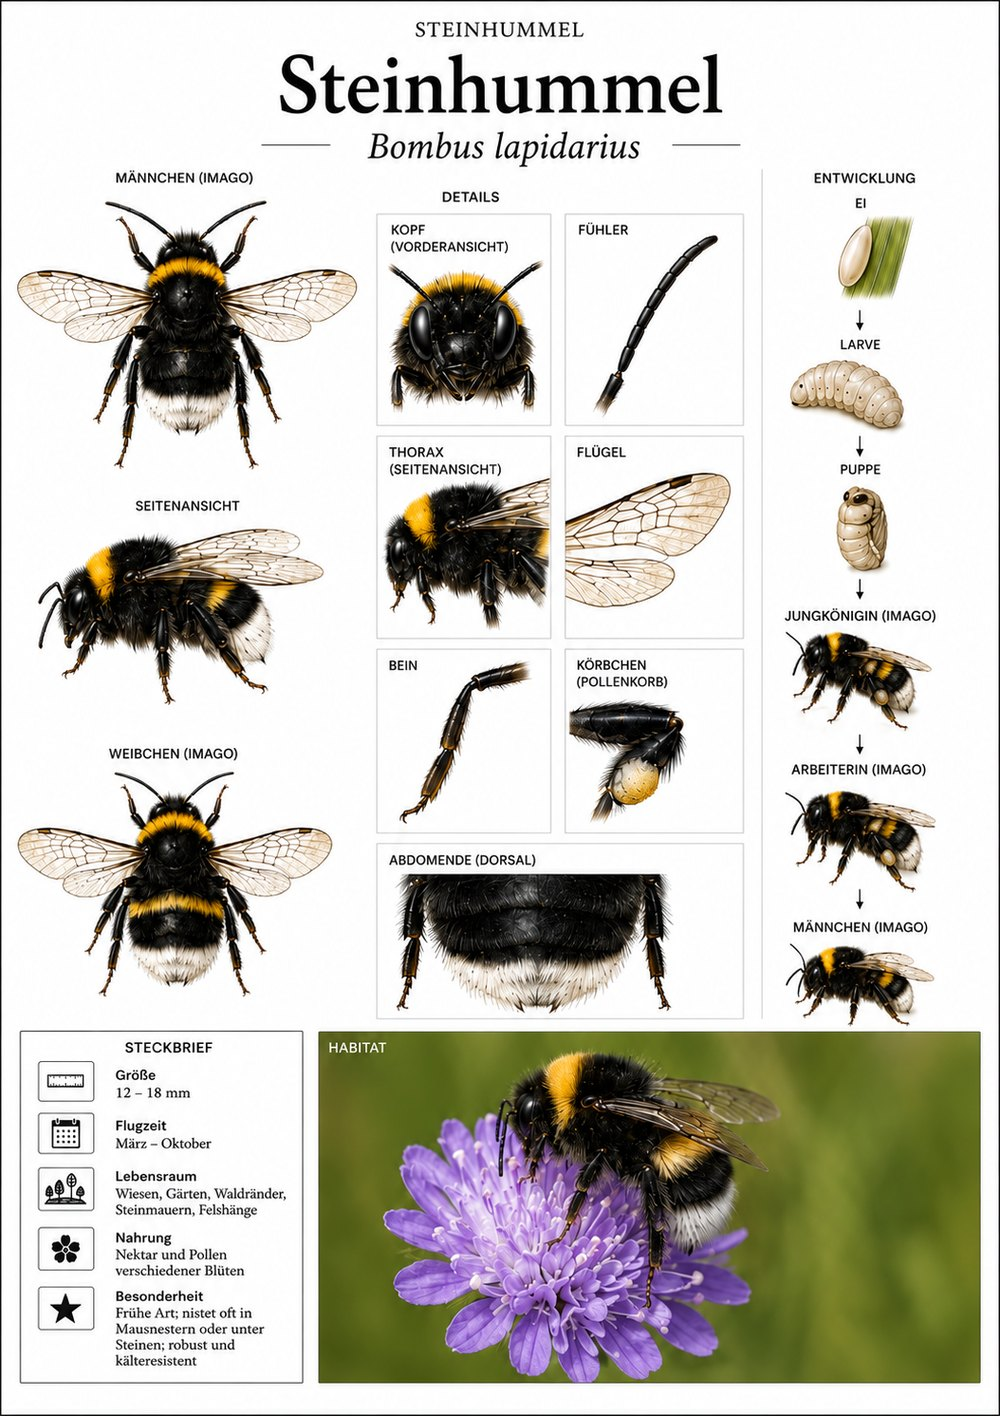
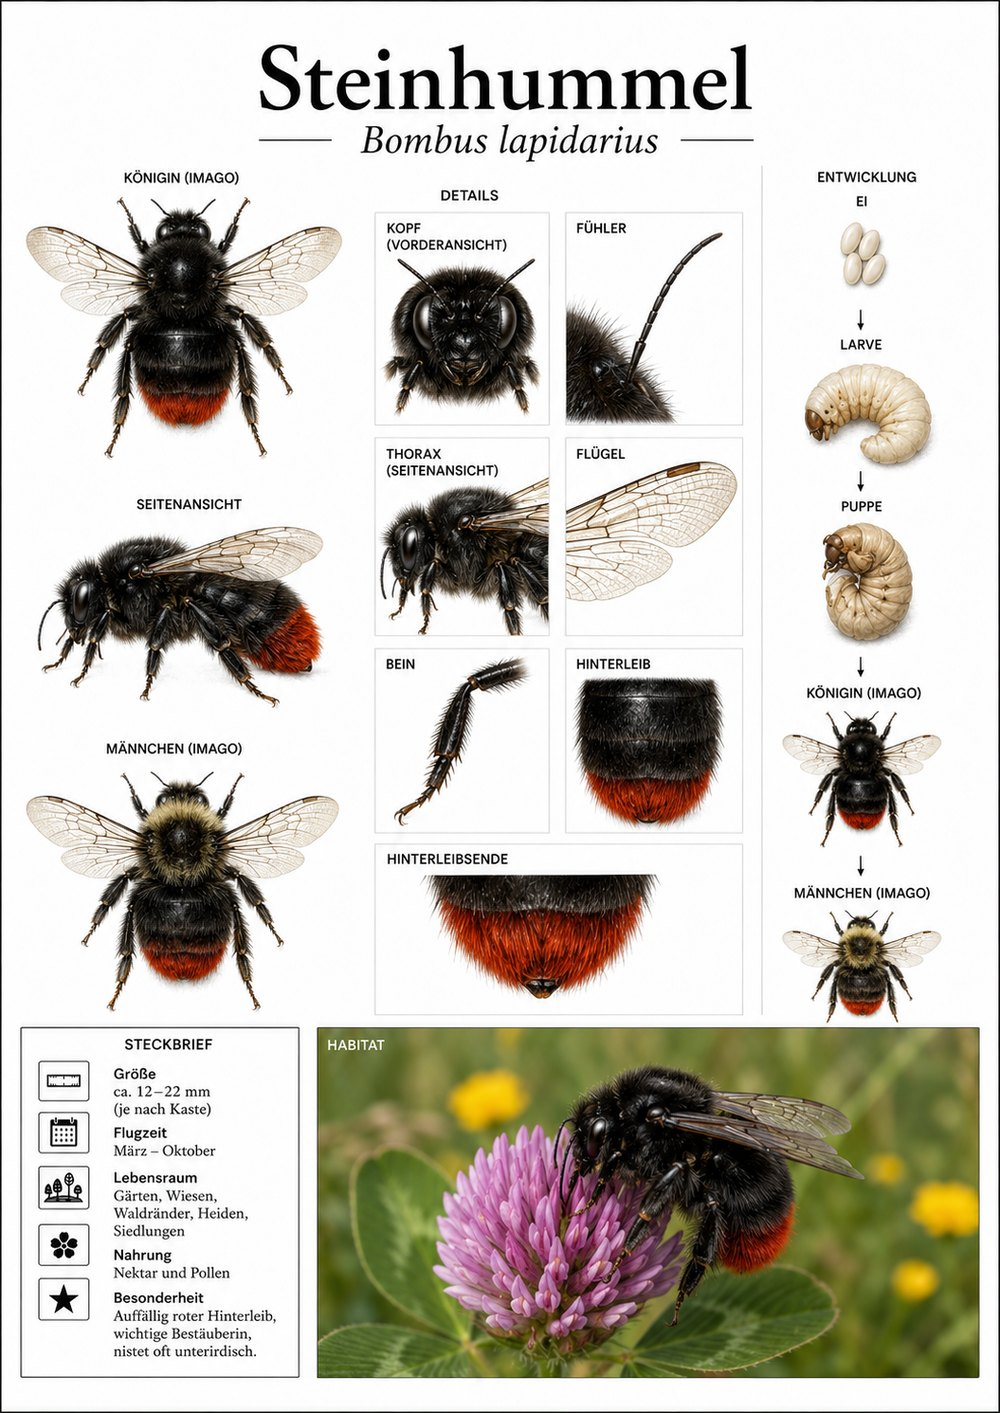
neue Arten

diff --git a/arten/scheckhornbock.html b/arten/scheckhornbock.html
@@ -3,8 +3,8 @@
 <head>
 <meta charset="UTF-8">
 <meta name="viewport" content="width=device-width, initial-scale=1.0">
-<title>Scheckhornbock · Artseite · Fauna Mibaso</title>
-<meta name="description" content="Scheckhornbock (Bockkäfer (Cerambycidae)): naturkundliche Tafel, Foto und Wissenswertes – Fauna Mibaso.">
+<title>Scheckhorn-Distelbock · Artseite · Fauna Mibaso</title>
+<meta name="description" content="Scheckhorn-Distelbock (Agapanthia villosoviridescens): naturkundliche Tafel, Foto und Wissenswertes – Fauna Mibaso.">
 <style>
   :root{--blau:#233D5C;--creme:#F7F3E8;--creme-tief:#EEE7D5;--tinte:#1c2e42;--honig:#C28A3A;--linie:#c3ccd5;
     --sans:-apple-system,BlinkMacSystemFont,"Segoe UI",Roboto,Helvetica,Arial,sans-serif;}
@@ -40,11 +40,11 @@
   <p class="brot">Insekten › Käfer › Bockkäfer</p>
 
   <div class="tafel">
-    <img src="../images/tafeln/scheckhornbock.jpg" alt="Naturkundliche Lehrtafel: Scheckhornbock (Bockkäfer (Cerambycidae))">
+    <img src="../images/tafeln/scheckhornbock.jpg" alt="Naturkundliche Lehrtafel: Scheckhorn-Distelbock (Agapanthia villosoviridescens)">
   </div>
 
-  <h1>Scheckhornbock</h1>
-  <p class="lat">Bockkäfer (Cerambycidae)</p>
+  <h1>Scheckhorn-Distelbock</h1>
+  <p class="lat">Agapanthia villosoviridescens</p>
   <div class="raenge">
     <span class="chip"><b>Klasse</b> Insekten</span>
     <span class="chip"><b>Ordnung</b> Käfer</span>
@@ -52,21 +52,21 @@
   </div>
 
   <div class="foto">
-    <img src="../images/fotos/scheckhornbock.jpg" alt="Foto: Scheckhornbock (Bockkäfer (Cerambycidae))">
+    <img src="../images/fotos/scheckhornbock.jpg" alt="Foto: Scheckhorn-Distelbock (Agapanthia villosoviridescens)">
     <p class="ph">Foto: Michael Baur</p>
   </div>
 
-  <h3 class="abschnitt">Gescheckt und langfühlrig</h3>
-  <p class="text">Ein Bockkäfer in fein gesprenkeltem Schwarz-Weiß mit langen Fühlern. Im Frühsommer besucht er gern weiße Doldenblüten an sonnigen Waldrändern.</p>
+  <h3 class="abschnitt">Grünschimmernd mit Ringel-Fühlern</h3>
+  <p class="text">Ein schlanker Bockkäfer, dessen Körper gelblich-grün bis bronzefarben behaart ist. Unverkennbar sind die sehr langen, hell-dunkel geringelten Fühler. Im Frühsommer sitzt er gern auf Disteln und anderen Korbblütlern an sonnigen Wegrändern.</p>
 
-  <h3 class="abschnitt">Aufgewachsen im Totholz</h3>
-  <p class="text">Die Larven entwickeln sich im toten Laubholz von Buche, Ahorn, Weide und Pappel. Liegengebliebenes Totholz ist seine Lebensgrundlage.</p>
+  <h3 class="abschnitt">Kinderstube im Distelstängel</h3>
+  <p class="text">Anders als viele Bockkäfer wächst seine Larve nicht im Totholz auf, sondern in den markhaltigen Stängeln zweijähriger Pflanzen – allen voran Disteln. Daher der Name „Distelbock". Die fertigen Käfer erscheinen ab Mai.</p>
 
 
   <h2>Kurz notiert</h2>
   <ul class="notizen">
-    <li>Wie alle Bockkäfer an den langen Fühlern erkennbar.</li>
-    <li>Hinweis: Der wissenschaftliche Name auf der Tafel ist noch zu prüfen.</li>
+    <li>Die extrem langen, hell-dunkel geringelten Fühler sind unverwechselbar.</li>
+    <li>Liebt sonnige Wegränder, Brachen und Ruderalflächen mit Disteln.</li>
   </ul>
 
   <a class="baumlink" href="../interaktiv/stammbaum.html">Im Stammbaum zeigen ↗</a>

diff --git a/interaktiv/schluessel.html b/interaktiv/schluessel.html
@@ -184,7 +184,7 @@ const KNOTEN = {
       {t:"Schwarz mit einigen gelben Flecken; auf Doldenblüten", h:"Fleckenhörniger Halsbock", sw:"#2c2c2c", kurz:"schwarz, gelbe Flecken", ziel:"a_fleckenhoerniger-halsbock"},
       {t:"Grau gepunktet; an jungen Pappeln/Espen, oft mit spindelförmigen Gallen", h:"Pappel-Bockkäfer", sw:"#9a9384", kurz:"grau, Pappel", ziel:"a_kleiner-pappel-bockkaefer"},
       {t:"Sehr schlank und zierlich; auf Doldenblüten", h:"Schmalbock", sw:"#9a9384", kurz:"schlank", ziel:"a_kleiner-schmalbock"},
-      {t:"Schwarz-weiß gescheckt, lange Fühler", h:"Scheckhornbock", sw:"#6b6b6b", kurz:"gescheckt", ziel:"a_scheckhornbock"},
+      {t:"Gelblich-grün, sehr lange geringelte Fühler; auf Disteln", h:"Scheckhorn-Distelbock", sw:"#8a8a4a", kurz:"Distelbock", ziel:"a_scheckhornbock"},
       {t:"Ein anderer Bockkäfer", h:"zur Gruppe", kurz:"anderer", ziel:"g_kaefer"},
     ]},
 
@@ -441,8 +441,8 @@ const KNOTEN = {
   /* ---- Endpunkte: weitere Insekten-Arten (Runde 3) ---- */
   "a_kleiner-schmalbock":{ art:true, rang:"Insekt · Art", de:"Kleiner Schmalbock", lat:"Leptura aethiops", url:"../arten/kleiner-schmalbock.html",
     text:"Zierlicher Bockkäfer; verbringt den Sommer auf Doldenblüten, die Larve im Totholz."},
-  "a_scheckhornbock":{ art:true, rang:"Insekt · Art", de:"Scheckhornbock", lat:"Bockkäfer (Cerambycidae)", url:"../arten/scheckhornbock.html",
-    text:"Schwarz-weiß gescheckter Bockkäfer mit langen Fühlern; die Larve lebt im toten Laubholz."},
+  "a_scheckhornbock":{ art:true, rang:"Insekt · Art", de:"Scheckhorn-Distelbock", lat:"Agapanthia villosoviridescens", url:"../arten/scheckhornbock.html",
+    text:"Schlanker, grünlich behaarter Bockkäfer mit sehr langen geringelten Fühlern; die Larve lebt in Distelstängeln."},
   "a_rotschwarzer-weichkaefer":{ art:true, rang:"Insekt · Art", de:"Rotschwarzer Weichkäfer", lat:"Cantharis pellucida", url:"../arten/rotschwarzer-weichkaefer.html",
     text:"Weiche Flügeldecken, rot-schwarz; jagt Blattläuse und ist ein nützlicher Helfer."},
   "a_gemeiner-weichkaefer":{ art:true, rang:"Insekt · Art", de:"Gemeiner Weichkäfer", lat:"Cantharis fusca", url:"../arten/gemeiner-weichkaefer.html",

diff --git a/interaktiv/stammbaum.html b/interaktiv/stammbaum.html
@@ -263,7 +263,7 @@ const baumDaten = {
                           {de:"Echter Widderbock", lat:"Clytus arietis", art:true, url:"../arten/echter-widderbock.html", info:"Schwarz-gelb wie eine Wespe (Mimikry); Larve im Totholz."},
                           {de:"Fleckenhörniger Halsbock", lat:"Anoplodera sexguttata", art:true, url:"../arten/fleckenhoerniger-halsbock.html", info:"Schwarz mit gelben Flecken; Blütenbesucher, Larve im Totholz."},
                           {de:"Kleiner Schmalbock", lat:"Leptura aethiops", art:true, url:"../arten/kleiner-schmalbock.html", info:"Zierlicher Schmalbock; Blütenbesucher, Larve im Totholz."},
-                          {de:"Scheckhornbock", lat:"Cerambycidae", art:true, url:"../arten/scheckhornbock.html", info:"Schwarz-weiß gescheckter Bockkäfer mit langen Fühlern; Larve im Totholz."}
+                          {de:"Scheckhorn-Distelbock", lat:"Agapanthia villosoviridescens", art:true, url:"../arten/scheckhornbock.html", info:"Gelblich-grüner Distelbock mit sehr langen geringelten Fühlern; Larve in Distelstängeln."}
                         ]},
                         {de:"Buntkäfer", lat:"Cleridae", info:"Bunte, behaarte Blütenkäfer; Larven oft Räuber.", k:[
                           {de:"Bienenkäfer", lat:"Trichodes apiarius", art:true, url:"../arten/bienenkaefer.html", info:"Rot-blau gebändert; Larve lebt räuberisch in Wildbienennestern."}